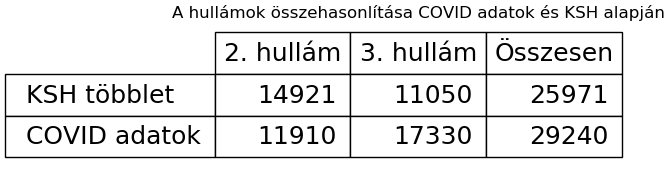
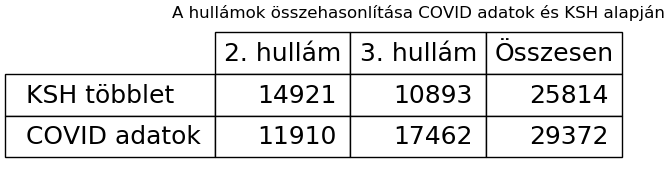
Frissítés

diff --git a/kép_ksh_vs_hivatalos_halálozás.py b/kép_ksh_vs_hivatalos_halálozás.py
@@ -9,7 +9,7 @@ import os
 BASEDIR=os.path.dirname(__file__)
 
 df = pd.read_csv(BASEDIR +"/adatok/stadat-halalozas-elokeszitve.csv", parse_dates=['A hét kező napja', 'A hét záró napja'], delimiter=';')
-dfweeks = df[(df['A hét sorszáma'] < 23.0) | (df['A hét sorszáma'] > 35.0)]
+dfweeks = df[(df['A hét sorszáma'] < 26.0) | (df['A hét sorszáma'] > 35.0)]
 
 df2020 = dfweeks[dfweeks['A hét záró napja'] > "2020-08-30"]
 covid_elhunytak = df2020[['A hét kező napja', 'A hét sorszáma', 'Összesen összesen']].rename(columns = {'Összesen összesen': 'Elhunytak'}, inplace = False)
@@ -23,6 +23,8 @@ dfkozos = pd.merge(covid_elhunytak, atlag_elhunytak, left_on = 'A hét sorszáma
 dfkozos = dfkozos.rename(columns = {'A hét kező napja': 'Dátum'}, inplace = False)
 dfkozos['KSH többlet']=dfkozos['Elhunytak'] - dfkozos['KSH 5 éves átlag']
 
+datemax = dfkozos['Dátum'].max()
+
 diff = int(dfkozos['KSH többlet'].sum() + 0.5)
 
 if (diff > 0):
@@ -30,11 +32,11 @@ if (diff > 0):
 else:
     diff = str(diff)
 
-df = pd.read_csv(BASEDIR +"/adatok/covidadatok.csv", parse_dates=['Dátum'])
+df = pd.read_csv(BASEDIR +"/adatok/hiradatok.csv", parse_dates=['Dátum'])
 df['Dátum'] = df.apply(lambda row: row['Dátum'] - dt.timedelta(days=row['Dátum'].weekday()), axis=1)
 dfheti = (df.groupby('Dátum', as_index=False).sum())
 dfheti['Hivatalos heti új elhunyt'] = dfheti['Napi új elhunyt']
-dfheti = dfheti[(dfheti['Dátum'] < "2021-06-01") & (dfheti['Dátum'] > "2020-08-30")]
+dfheti = dfheti[(dfheti['Dátum'] <= datemax) & (dfheti['Dátum'] > "2020-08-30")]
 
 dfkozos = pd.merge(dfkozos, dfheti, left_on = 'Dátum', right_on = 'Dátum')
 

diff --git a/kép_ksh_vs_hivatalos_halálozás_tábla.py b/kép_ksh_vs_hivatalos_halálozás_tábla.py
@@ -11,7 +11,7 @@ import matplotlib.pyplot as plt
 BASEDIR=os.path.dirname(__file__)
 
 df = pd.read_csv(BASEDIR +"/adatok/stadat-halalozas-elokeszitve.csv", parse_dates=['A hét kező napja', 'A hét záró napja'], delimiter=';')
-dfweeks = df[(df['A hét sorszáma'] < 23.0) | (df['A hét sorszáma'] > 35.0)]
+dfweeks = df[(df['A hét sorszáma'] < 26.0) | (df['A hét sorszáma'] > 35.0)]
 
 df2020 = dfweeks[dfweeks['A hét záró napja'] > "2020-08-30"]
 covid_elhunytak = df2020[['A hét kező napja', 'A hét sorszáma', 'Összesen összesen']].rename(columns = {'Összesen összesen': 'Elhunytak'}, inplace = False)
@@ -25,11 +25,13 @@ dfkozos = pd.merge(covid_elhunytak, atlag_elhunytak, left_on = 'A hét sorszáma
 dfkozos = dfkozos.rename(columns = {'A hét kező napja': 'Dátum'}, inplace = False)
 dfkozos['KSH többlet']=dfkozos['Elhunytak'] - dfkozos['KSH 5 éves átlag']
 
-df = pd.read_csv(BASEDIR +"/adatok/covidadatok.csv", parse_dates=['Dátum'])
+datemax = dfkozos['Dátum'].max()
+
+df = pd.read_csv(BASEDIR +"/adatok/hiradatok.csv", parse_dates=['Dátum'])
 df['Dátum'] = df.apply(lambda row: row['Dátum'] - dt.timedelta(days=row['Dátum'].weekday()), axis=1)
 dfheti = (df.groupby('Dátum', as_index=False).sum())
 dfheti = dfheti.rename(columns = {'Napi új elhunyt': "Hivatalos heti új elhunyt", 'Hét kezdet': 'Dátum'}, inplace = False)
-dfheti = dfheti[(dfheti['Dátum'] < "2021-06-01") & (dfheti['Dátum'] > "2020-08-30")]
+dfheti = dfheti[(dfheti['Dátum'] <= datemax) & (dfheti['Dátum'] > "2020-08-30")]
 
 dfkozos = pd.merge(dfkozos, dfheti, left_on = 'Dátum', right_on = 'Dátum')
 
